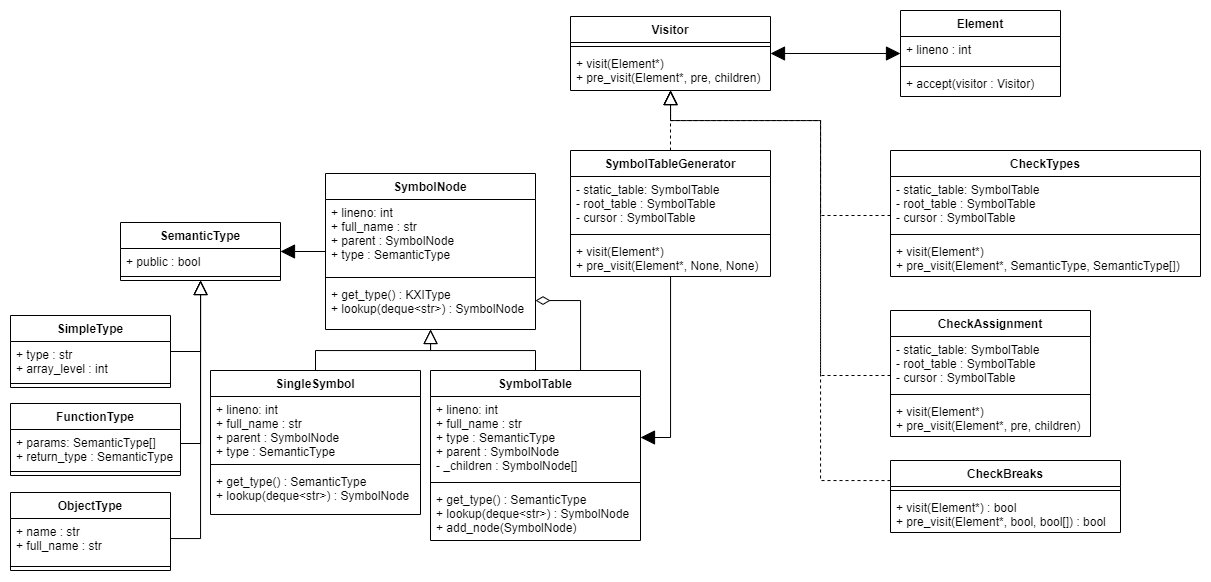
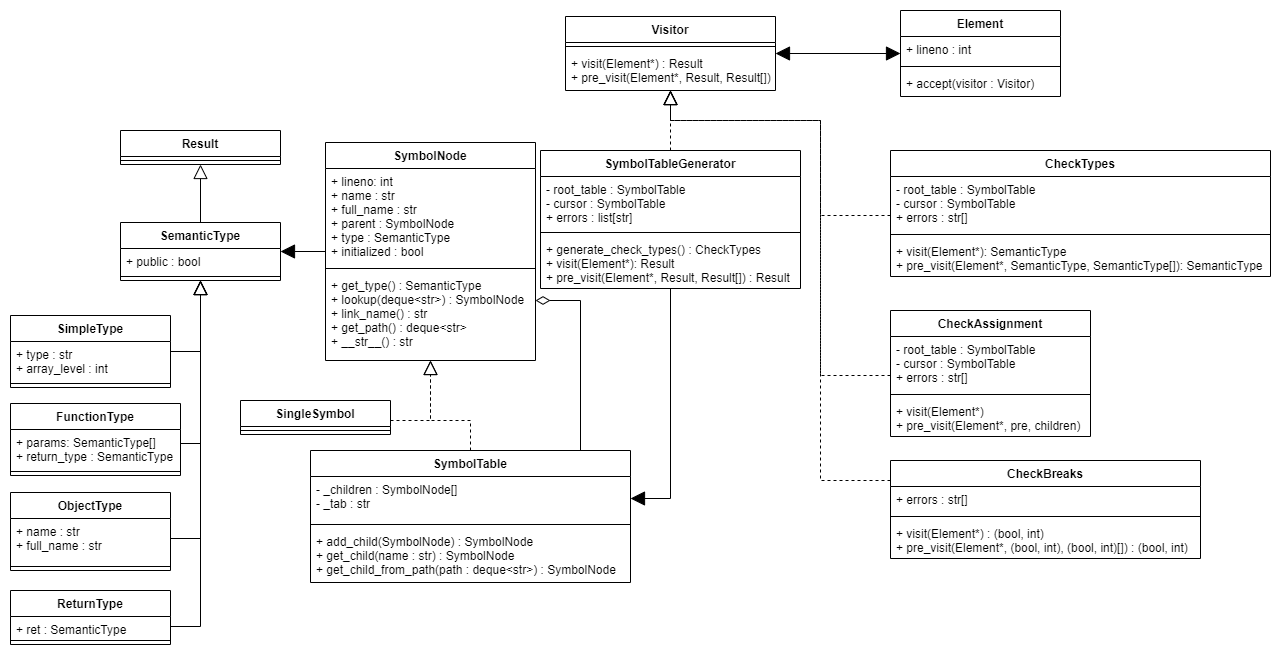
Visitor more type safe. AST more specific types

diff --git a/design.md b/design.md
@@ -150,8 +150,9 @@ There are 4 steps to checking the Semantics (each as visitors).
 ### Rules for Semantics
 | Area/Violation                        | Visitor handling that rule |
 | ---                                   | --- |
-| duplicate members                     | SymbolTableGenerator |
-| duplicate variable names (same scope) | SymbolTableGenerator |
+| duplicate members (same scope)        | SymbolTableGenerator |
+| class name shadowing                  | CheckTypes |
+| un-inited variables                   | CheckTypes |
 | private/public access                 | CheckTypes |
 | static access                         | CheckTypes |
 | object element access                 | CheckTypes |
